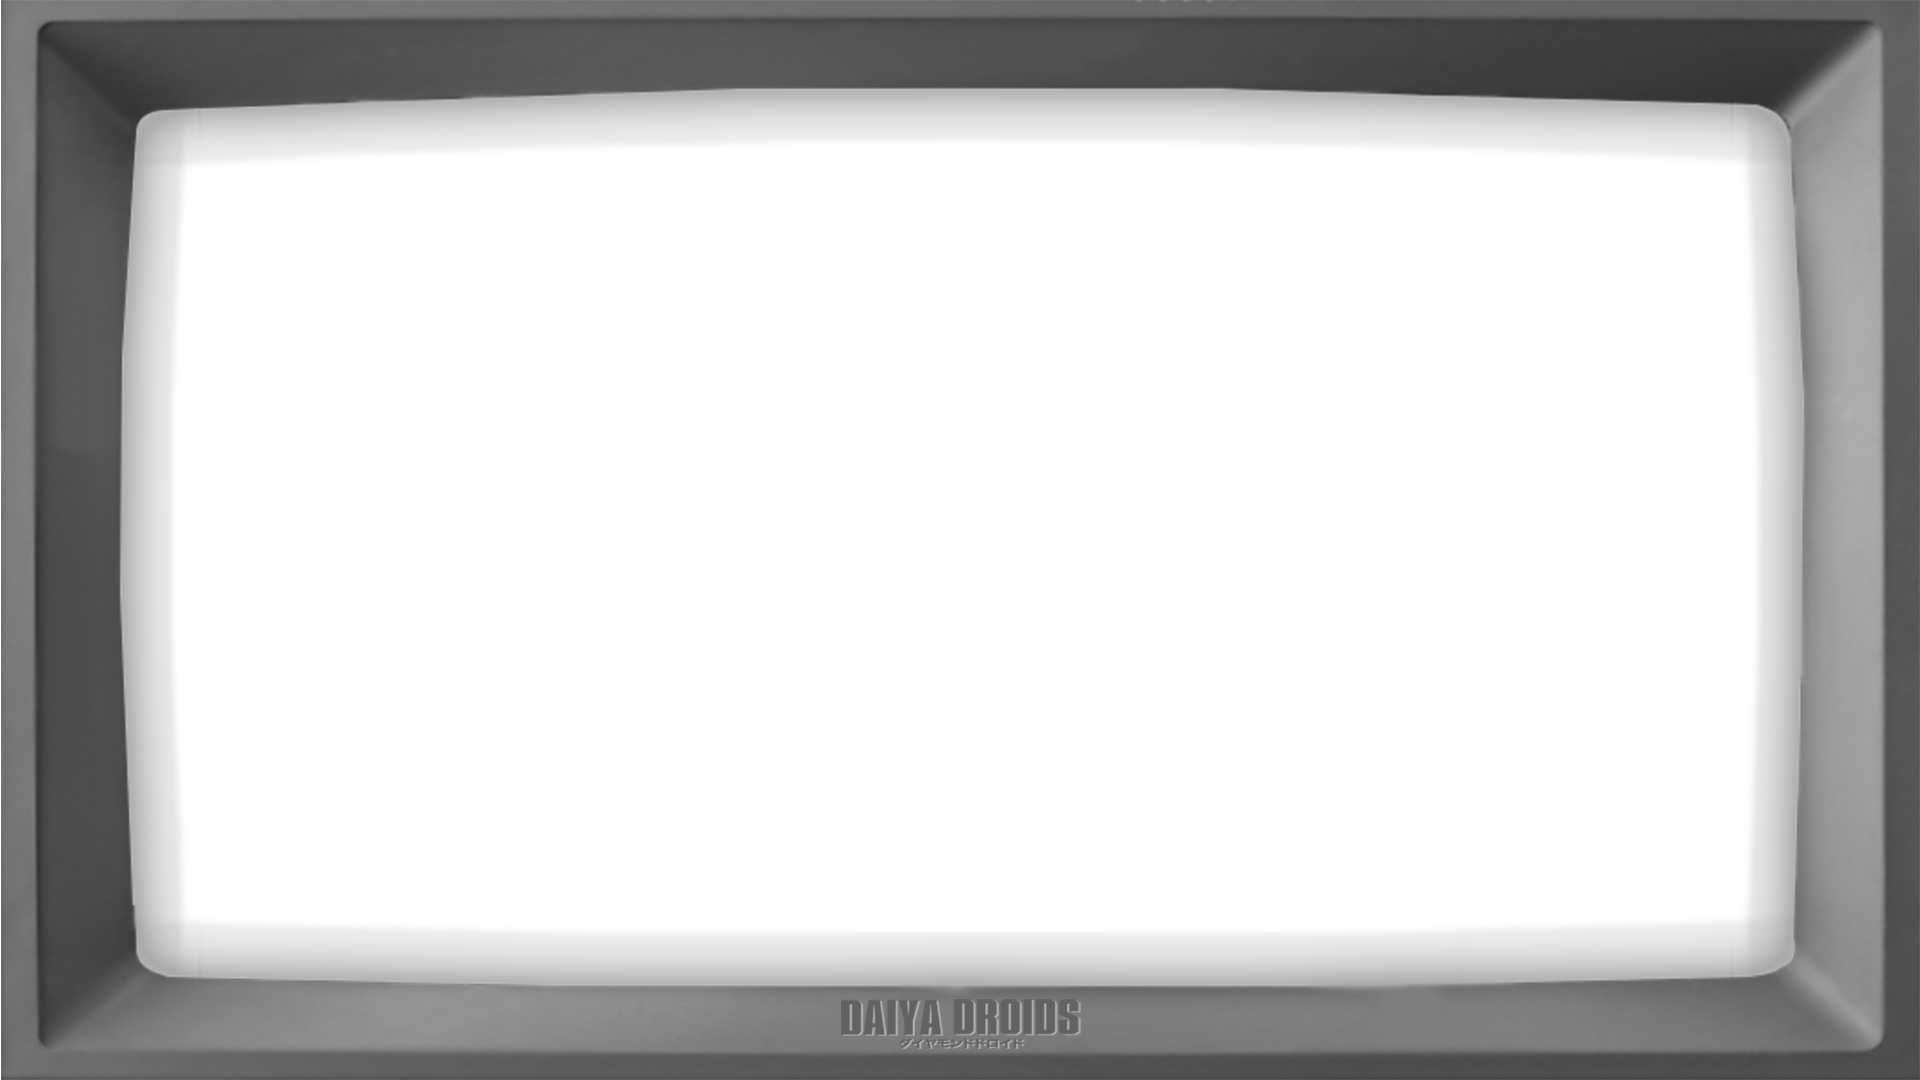
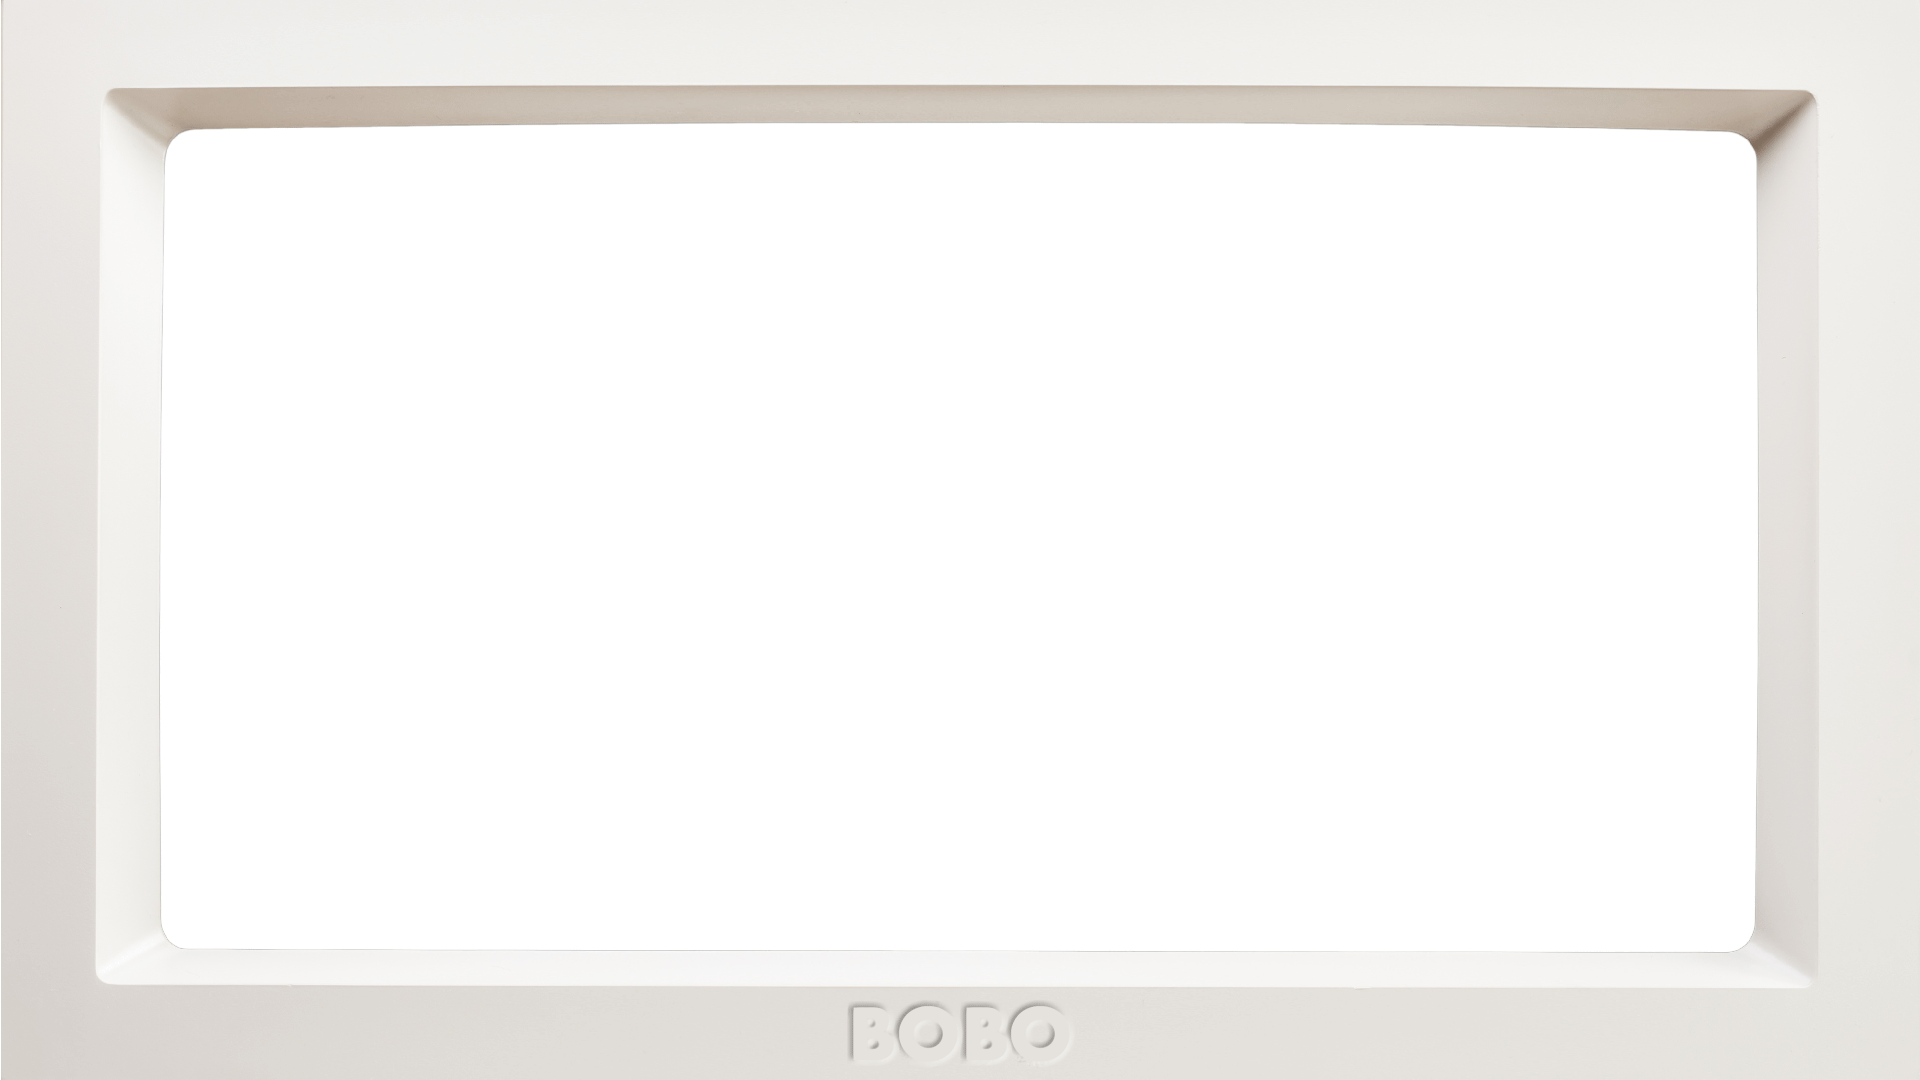
update

diff --git a/website/src/pages/index.js b/website/src/pages/index.js
@@ -13,11 +13,11 @@ export default function Home() {
         <meta name="viewport" content="width=device-width, initial-scale=1" />
         <link rel="icon" href="/favicon.ico" />
       </Head>
-      <div className="fixed inset-0 flex items-center justify-center bg-gray-100">
-        <div className="absolute inset-0">
-            <Image src={tvborder} className="object-cover w-full h-full"></Image>
-        </div>
+        
+      <div class="absolute inset-0 bg-black bg-no-repeat bg-center bg-cover tv-border">
+
       </div>
+        
     </>
   )
 }

diff --git a/website/tailwind.config.js b/website/tailwind.config.js
@@ -4,9 +4,8 @@ module.exports = {
   theme: {
     extend: {
       backgroundImage: {
-        'tvBorder': "url('')",
-        'footer-texture': "url('./public/assets/tvborder.png')",
-      }
+        'tvBorder': "url('./public/assets/tvborder.png')",
+      },
     },
   },
   plugins: [],

diff --git a/website/src/styles/globals.css b/website/src/styles/globals.css
@@ -1,3 +1,7 @@
 @tailwind base;
 @tailwind components;
 @tailwind utilities;
+
+.tv-border {
+    background-image: url('/assets/tvborder.png');
+  }
